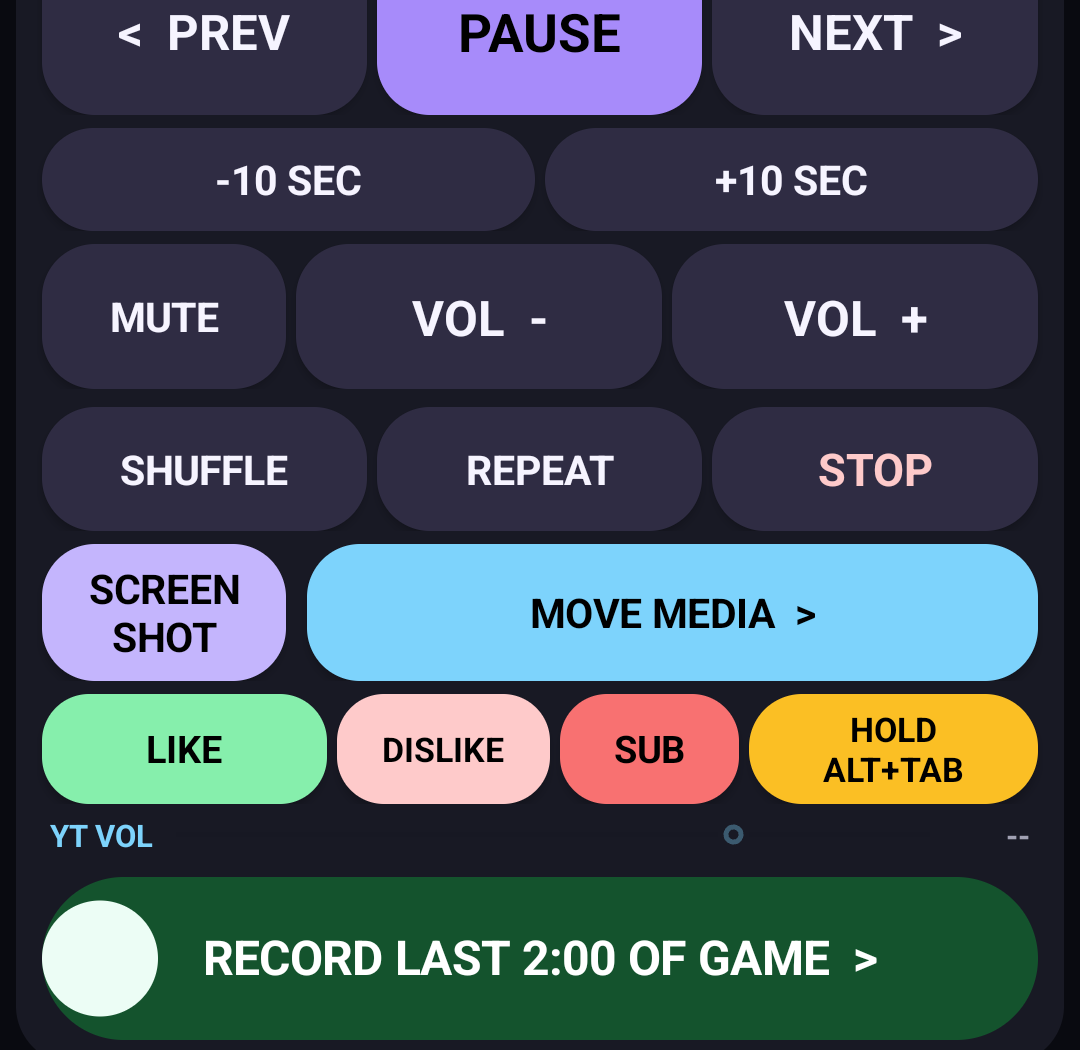
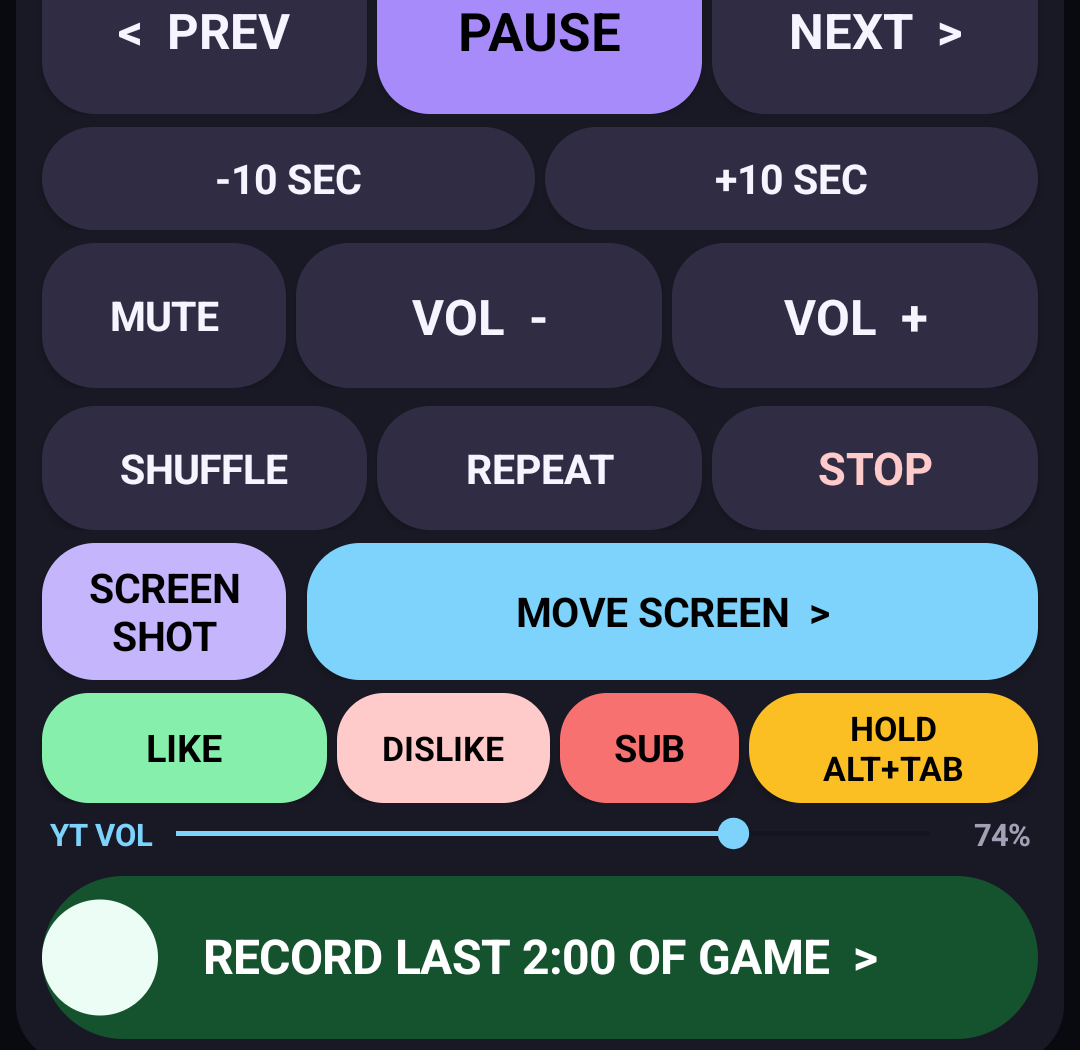
Rename blue control to Move Screen

diff --git a/app/src/main/java/com/mediadeck/remote/MainActivity.java b/app/src/main/java/com/mediadeck/remote/MainActivity.java
@@ -237,7 +237,7 @@ public final class MainActivity extends Activity {
         screenshot.setOnClickListener(v->takeScreenshot());
         addWeighted(utilityRow,screenshot,.2506f);
         utilityRow.addView(new View(this),new LinearLayout.LayoutParams(dp(4),1));
-        Button moveScreen=largeAction("MOVE MEDIA  >","movescreen",12);
+        Button moveScreen=largeAction("MOVE SCREEN  >","movescreen",12);
         moveScreen.setTextColor(Color.BLACK);
         moveScreen.setBackground(round(Color.rgb(125,211,252),20));
         moveScreen.setContentDescription("Move the selected PC media window to the next monitor");
@@ -543,7 +543,7 @@ public final class MainActivity extends Activity {
     private void youtubeAction(String command,String label){io.execute(()->{try{JSONObject result=new JSONObject(post("/api/control/"+command));String message=result.optString("message",label+" sent to YouTube");ui.post(()->Toast.makeText(this,message,Toast.LENGTH_SHORT).show());}catch(Exception error){ui.post(()->Toast.makeText(this,label+" unavailable: "+apiError(error),Toast.LENGTH_LONG).show());}});}
     private void setYoutubeVolume(int level){io.execute(()->{try{JSONObject result=new JSONObject(post("/api/youtube/volume?level="+level));int applied=result.optInt("volume",level);ui.post(()->youtubeVolumeValue.setText(applied+"%"));}catch(Exception error){ui.post(()->Toast.makeText(this,"YouTube volume unavailable: "+apiError(error),Toast.LENGTH_LONG).show());}});}
     private void takeScreenshot(){io.execute(()->{try{JSONObject captured=new JSONObject(post("/api/control/screenshot"));String provider=captured.optString("provider","PC");ui.post(()->Toast.makeText(this,"Screenshot saved by "+provider,Toast.LENGTH_SHORT).show());}catch(Exception error){ui.post(()->Toast.makeText(this,"Screenshot failed: "+safeMessage(error),Toast.LENGTH_LONG).show());}});}
-    private void moveScreen(){io.execute(()->{try{JSONObject moved=new JSONObject(post("/api/control/movescreen"));String display=moved.optString("display","next screen");ui.post(()->Toast.makeText(this,"Media moved to "+display,Toast.LENGTH_SHORT).show());}catch(Exception error){ui.post(()->Toast.makeText(this,"Could not move media: "+safeMessage(error),Toast.LENGTH_LONG).show());}});}
+    private void moveScreen(){io.execute(()->{try{JSONObject moved=new JSONObject(post("/api/control/movescreen"));String display=moved.optString("display","next screen");ui.post(()->Toast.makeText(this,"Screen moved to "+display,Toast.LENGTH_SHORT).show());}catch(Exception error){ui.post(()->Toast.makeText(this,"Could not move screen: "+safeMessage(error),Toast.LENGTH_LONG).show());}});}
     private void sendKeyCommand(String command){io.execute(()->{try{post("/api/control/"+command);}catch(Exception ignored){}});}
     private void beginAltGesture(){if(altHeld)return;altHeld=true;altTab.setText("ALT\nHELD");altTab.setBackground(round(Color.rgb(248,113,113),20));previous.setText("<  WINDOW");next.setText("WINDOW  >");sendKeyCommand("altdown");}
     private void endAltGesture(){if(!altHeld)return;altHeld=false;sendKeyCommand("altup");altTab.setText("HOLD\nALT+TAB");altTab.setBackground(round(Color.rgb(251,191,36),20));previous.setText("<  PREV");next.setText("NEXT  >");}

diff --git a/README.md b/README.md
@@ -77,7 +77,7 @@ Every screen below is a real Pixel 7 capture from the extension-free core.
   </tr>
   <tr>
     <td width="50%" valign="top">
-      <img src="docs/images/pixel7-screenshot-button.png" alt="MASHR Media Deck screenshot and media-window buttons while controlling VLC"><br>
+      <img src="docs/images/pixel7-screenshot-button.png" alt="MASHR Media Deck Screenshot and Move Screen controls"><br>
       <strong>Capture without leaving the game.</strong><br>
       The dedicated button uses NVIDIA's configured Screenshot shortcut, with a Windows fallback—and the same deck works with VLC.
     </td>
@@ -106,7 +106,7 @@ MASHR Media Deck is not a general remote-desktop app. It exposes a small allowli
 | A video drifts into filler | Tap **+10 SEC** or a chapter marker |
 | A video earns a reaction | Tap **LIKE**, **DISLIKE**, or **SUB** |
 | YouTube itself is too loud | Drag the tiny **YT VOL** slider |
-| The media window is on the wrong display | Tap **MOVE MEDIA TO NEXT SCREEN** |
+| The media window is on the wrong display | Tap **MOVE SCREEN** |
 | Something worth clipping just happened | Swipe **RECORD LAST 2:00 OF GAME** |
 | A different PC window is needed | Hold **ALT + TAB**, then tap **PREV/NEXT** |
 
@@ -230,7 +230,7 @@ Both scaffolds emit the shared `/api/now` snapshot shape and expose a small allo
 
 ## Project status
 
-MASHR Media Deck `1.4.7` is an open-source, owner-tested developer preview for a Pixel 7 and Windows 11 gaming PC. Linux and macOS are contributor scaffolds, not released companions. The project has no analytics, cloud backend, advertising, or account system.
+MASHR Media Deck `1.4.8` is an open-source, owner-tested developer preview for a Pixel 7 and Windows 11 gaming PC. Linux and macOS are contributor scaffolds, not released companions. The project has no analytics, cloud backend, advertising, or account system.
 
 Release history is in [CHANGELOG.md](CHANGELOG.md).
 

diff --git a/docs/SCREENSHOTS.md b/docs/SCREENSHOTS.md
@@ -1,6 +1,6 @@
 # MASHR Media Deck screenshots
 
-These are refreshed real Pixel 7 captures from MASHR Media Deck 1.4.7. YouTube artwork, live progress, chapter markers, reactions, subscription, the scene picker, playback controls, monitor switching, Alt+Tab, replay, and local pairing all work without a browser extension.
+These are real Pixel 7 captures from MASHR Media Deck 1.4.7–1.4.8. The latest action and gamer-control captures show the renamed blue **MOVE SCREEN** button. YouTube artwork, live progress, chapter markers, reactions, subscription, the scene picker, playback controls, monitor switching, Alt+Tab, replay, and local pairing all work without a browser extension.
 
 ## Extension-free YouTube deck
 
@@ -40,7 +40,7 @@ This capture uses a locally generated MASHR demo clip in VLC. The same portrait 
 
 ## Dedicated screenshot action
 
-![MASHR Media Deck screenshot button while controlling VLC](images/pixel7-screenshot-button.png)
+![MASHR Media Deck Screenshot and Move Screen controls](images/pixel7-screenshot-button.png)
 
 The lavender **SCREENSHOT** button invokes NVIDIA Overlay's configured Screenshot shortcut when available. A fixed Windows saved-screenshot shortcut is the fallback; the phone cannot supply arbitrary keys.
 
@@ -54,7 +54,7 @@ Pairing is between the phone and PC companion. The app does not ask for a YouTub
 
 ![MASHR Media Deck gamer controls](images/pixel7-replay-control.png)
 
-Blue moves the media window between screens, yellow controls Alt+Tab, and green **RECORD LAST 2:00 OF GAME** makes the armed Instant Replay result unmistakable.
+Blue **MOVE SCREEN** moves the media window between displays, yellow controls Alt+Tab, and green **RECORD LAST 2:00 OF GAME** makes the armed Instant Replay result unmistakable.
 
 ## Social card
 

diff --git a/docs/PRESS-KIT.md b/docs/PRESS-KIT.md
@@ -4,7 +4,7 @@
 
 **Product:** MASHR Media Deck<br>
 **Category:** Local second-screen media remote for PC gamers<br>
-**Current release:** 1.4.7 developer preview<br>
+**Current release:** 1.4.8 developer preview<br>
 **Platforms:** Android 8+ phone; Windows 10/11 PC companion; Linux/macOS contributor scaffolds<br>
 **Developer:** Blue Heeler Software
 
@@ -88,7 +88,7 @@ The core deck needs no browser extension. YouTube artwork, metadata, live progre
 
 ### Screenshot button
 
-![Dedicated screenshot button while controlling VLC](images/pixel7-screenshot-button.png)
+![Dedicated Screenshot and Move Screen controls](images/pixel7-screenshot-button.png)
 
 **Caption:** Capture the PC through NVIDIA's configured shortcut without leaving the game; Windows provides the fallback.
 
@@ -106,7 +106,7 @@ The core deck needs no browser extension. YouTube artwork, metadata, live progre
 
 **Caption:** Replay state is explicit: orange arms the rolling buffer; green reads **RECORD LAST 2:00 OF GAME** using NVIDIA's configured history length.
 
-**Alt text:** Lower part of MASHR Media Deck with screenshot, monitor switching, YouTube reactions, Alt+Tab, player volume, and Record last 2 minutes of game controls.
+**Alt text:** Lower part of MASHR Media Deck with Screenshot, blue Move Screen, YouTube reactions, Alt+Tab, player volume, and Record last 2 minutes of game controls.
 
 ## Brand palette
 

diff --git a/CHANGELOG.md b/CHANGELOG.md
@@ -17,6 +17,7 @@ All notable MASHR Media Deck changes are recorded here.
 
 ### Changed
 
+- Renamed the blue **MOVE MEDIA** control to the shorter, clearer **MOVE SCREEN** label.
 - Renamed the armed replay control to **RECORD LAST 2:00 OF GAME** so its gameplay-capture purpose is obvious at a glance.
 - Reduced the outer deck gutter, card inset, and control-row spacing so the Pixel 7 layout uses more of the available screen width while retaining safe rounded edges.
 - Extended the control stack toward the Pixel navigation area, made Mute narrower, and gave both volume controls more width, height, and label emphasis.
